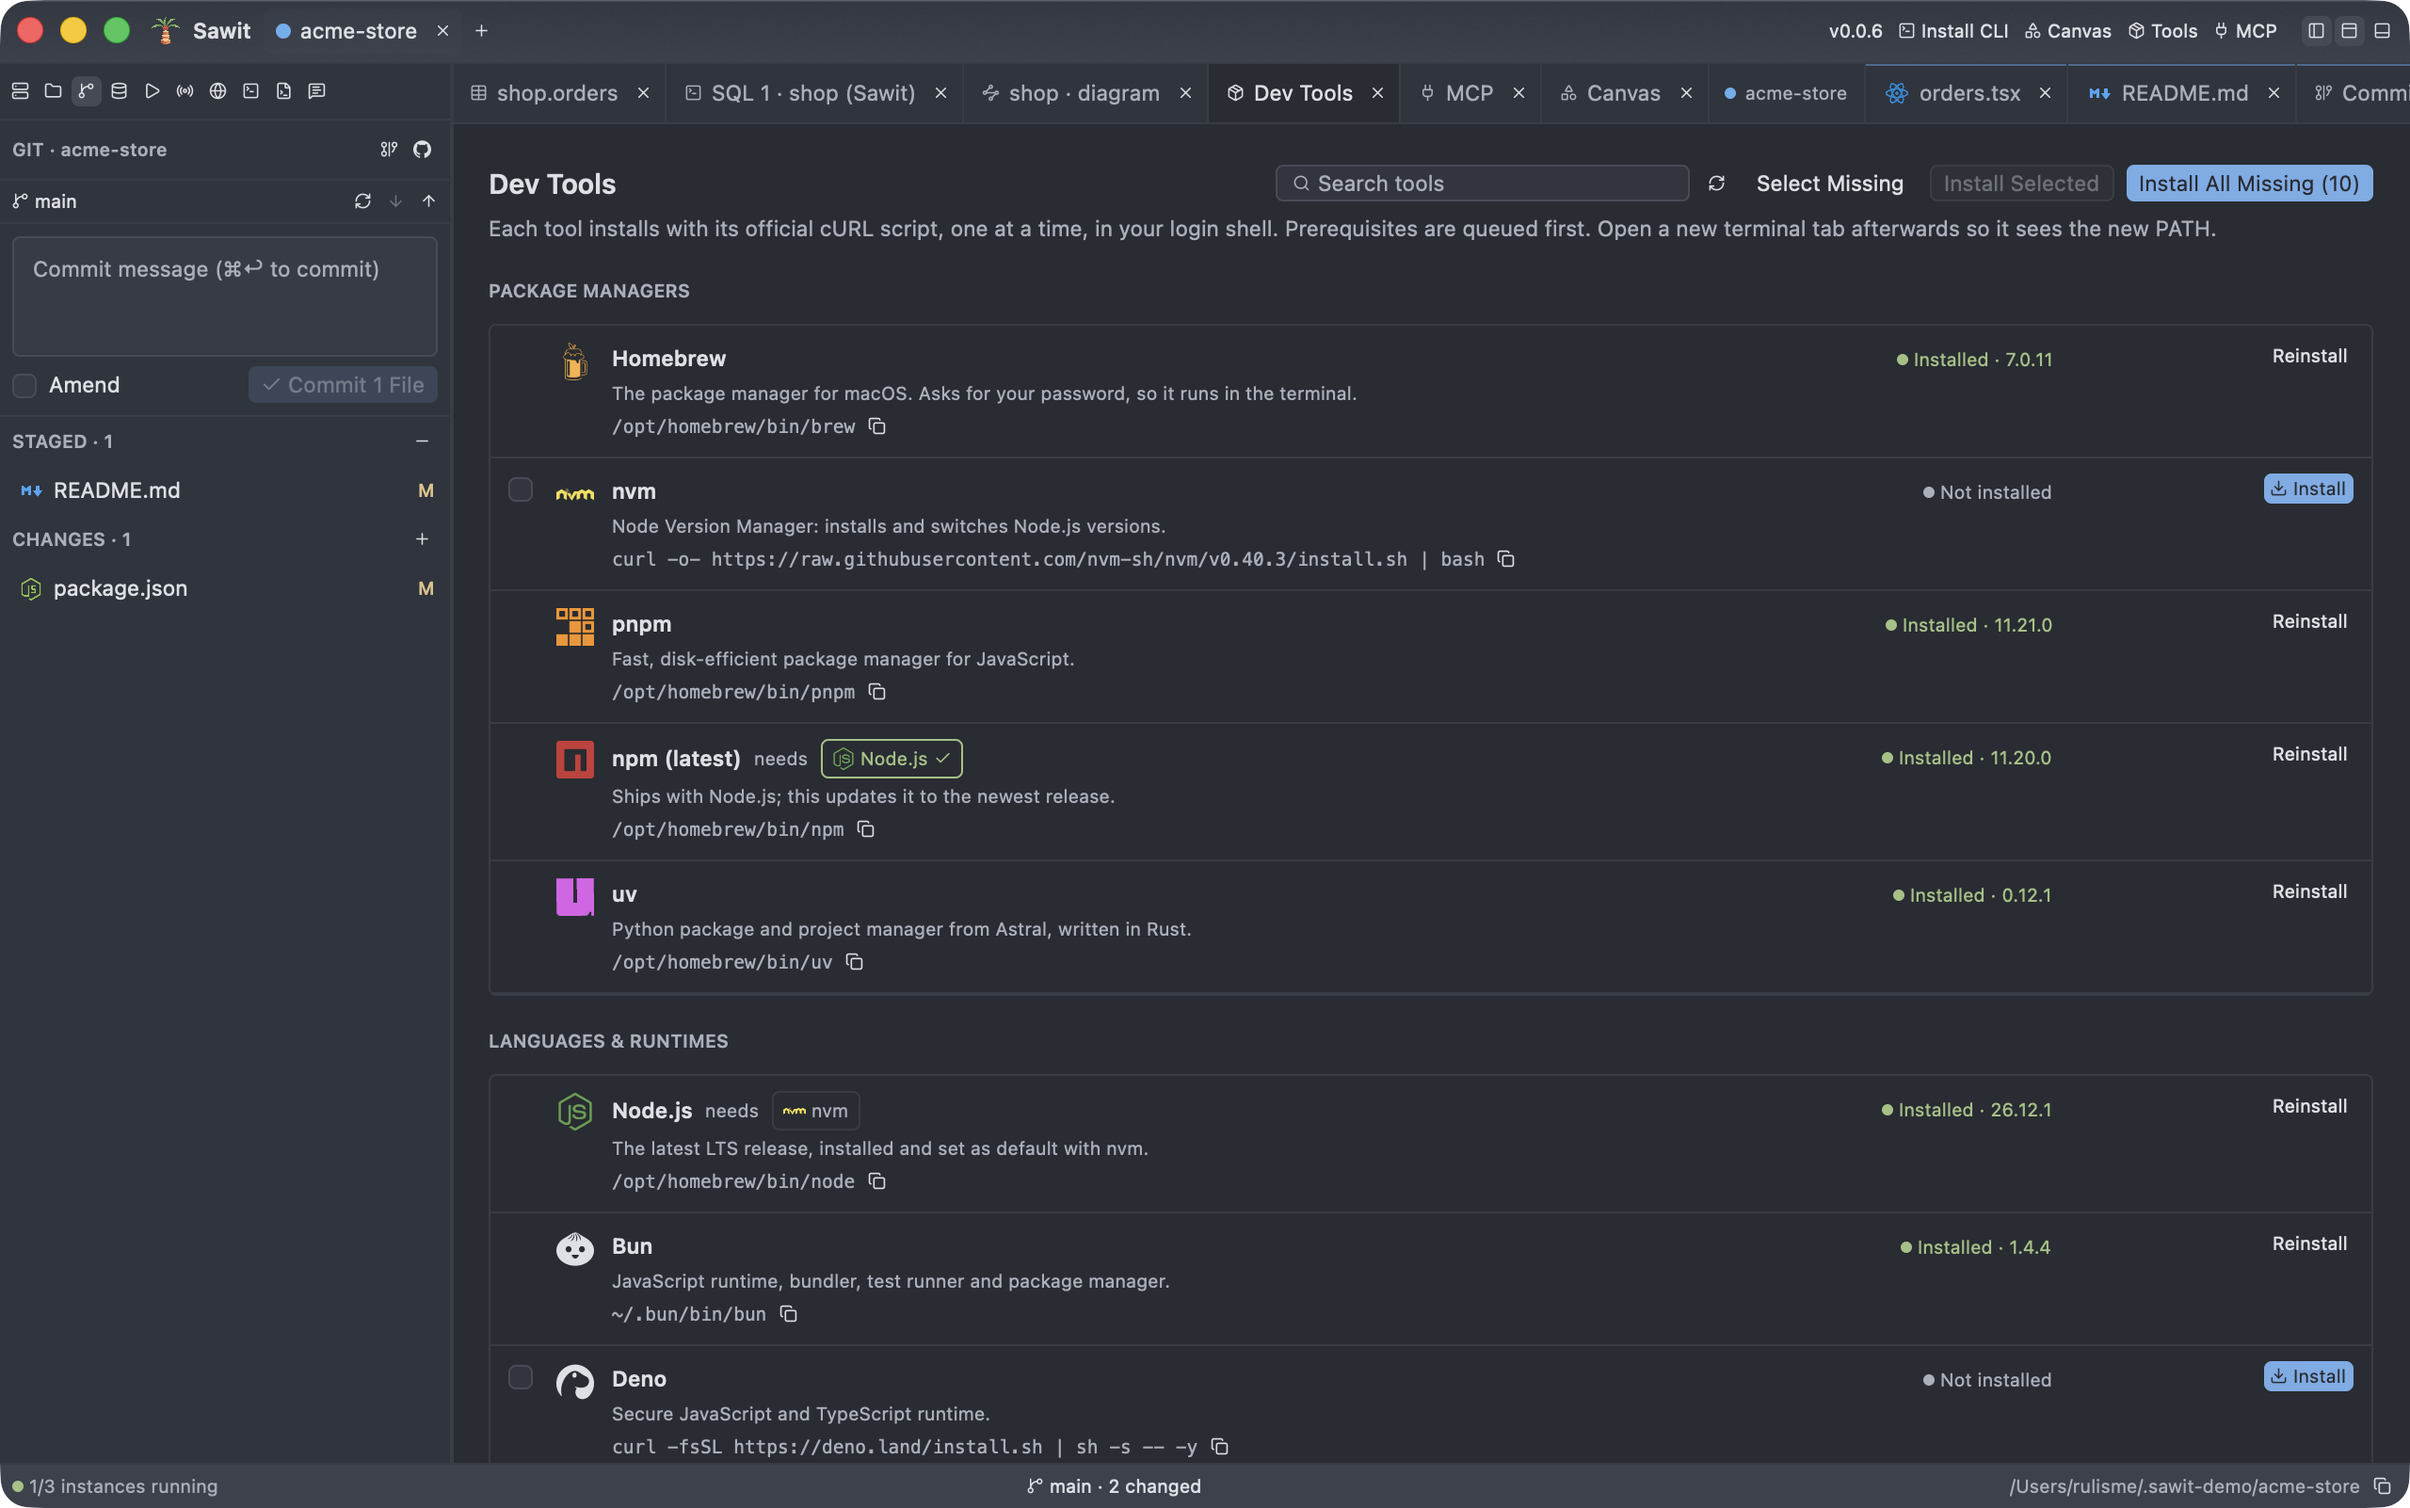
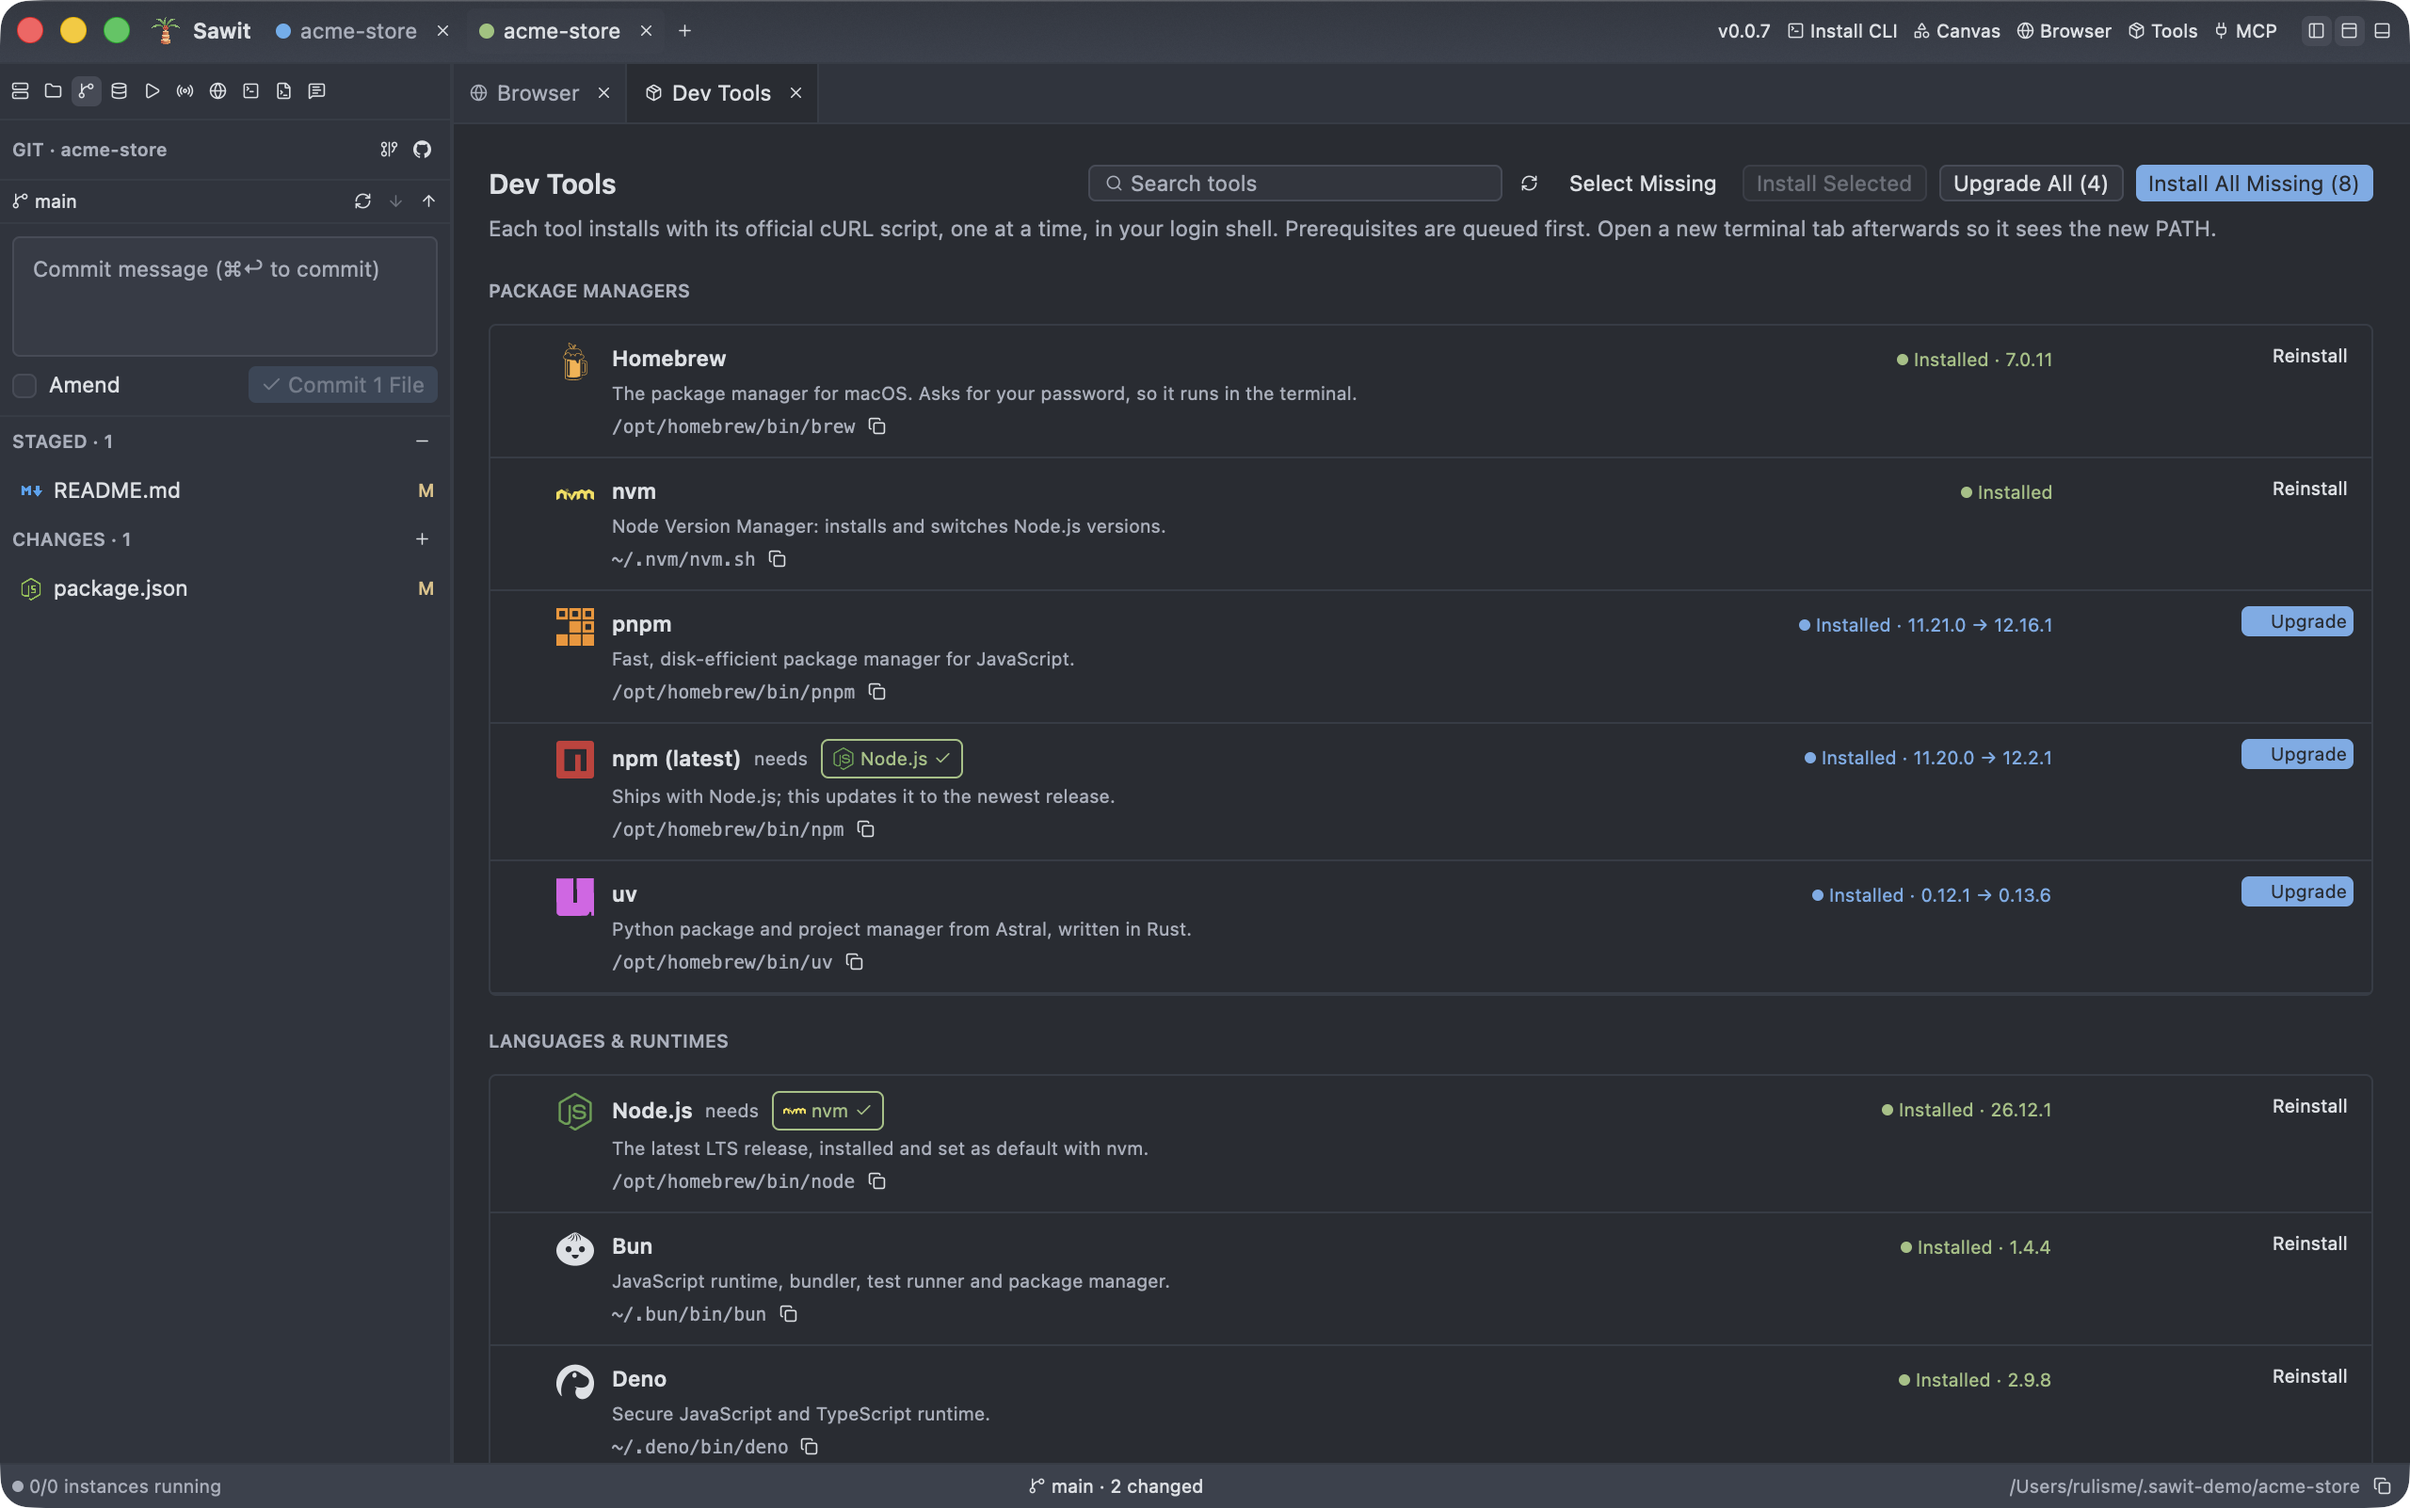
docs: update README, screenshots and demo for the browser tab and dev tool upgrades

diff --git a/README.md b/README.md
@@ -59,9 +59,10 @@ The UI is GPU-rendered with [GPUI](https://gpui.rs), and its look follows Zed (t
 | 🖥 **A real terminal** | Full `alacritty_terminal` emulation, fullscreen with one click, and it can run [herdr](https://herdr.dev). |
 | 📡 **Ports & network** | See and stop every dev server you started, and diagnose your internet connection step by step. |
 | 💬 **Prompt library** | Save the prompts you reuse, with tags and `{{variables}}` to fill in before copying. |
-| 🧰 **Dev tools in one click** | Install Homebrew, Bun, uv, Node.js, Rust, Claude Code, Codex and more with their official scripts, prerequisites first. |
-| ⌨ **psql-style CLI** | `sawit kyzn leads "phone is null"` queries a database, `sawit list` shows everything, `sawit bakar ports` stops dev servers, `sawit panen` exports and `sawit backup` dumps. |
-| 🤖 **Ready for AI agents** | The `sawit-mcp` server (96 tools) and a catalog of MCP servers (AWS, Cloudflare, Neon, Figma, …), installed into Claude Code, Codex, Cursor, Zed and more with one click. |
+| 🌐 **Browser for agents** | A browser tab per project that opens your dev server, with Web Inspector, and that AI agents drive through `browser_*` MCP tools: click, type, snapshot, console, network and screenshots. |
+| 🧰 **Dev tools in one click** | Install Homebrew, Bun, uv, Node.js, Rust, Claude Code, Codex and more with their official scripts, prerequisites first, and upgrade them when a newer release is out. |
+| ⌨ **psql-style CLI** | `sawit kyzn leads "phone is null"` queries a database, `sawit list` shows everything, `sawit bakar ports` stops dev servers, `sawit panen` exports, `sawit backup` dumps and `sawit pupuk` upgrades dev tools. |
+| 🤖 **Ready for AI agents** | The `sawit-mcp` server (110 tools) and a catalog of MCP servers (AWS, Cloudflare, Neon, Figma, …), installed into Claude Code, Codex, Cursor, Zed and more with one click. |
 
 ## Install
 
@@ -71,7 +72,7 @@ On an Apple Silicon Mac, run:
 curl -fsSL https://raw.githubusercontent.com/bahrulbangsawan/sawit.dev/main/scripts/install.sh | sh
 ```
 
-This installs the latest release into `/Applications` (or `~/Applications`). Add `SAWIT_VERSION=v0.0.6` before `sh`
+This installs the latest release into `/Applications` (or `~/Applications`). Add `SAWIT_VERSION=v0.0.8` before `sh`
 to pick a version. After that, the app updates itself.
 
 The script also offers to install [herdr](https://herdr.dev) (optional, for split panes in Sawit's terminal). It asks
@@ -213,11 +214,26 @@ explained. A conflict on the same address can't be forced.
 - Click **Tools** in the title bar for package managers (Homebrew, nvm, pnpm, npm, uv), languages and runtimes
   (Node.js, Bun, Deno, Python, Rust), AI agents (Claude Code, Codex, OpenCode, Amp, …) and terminal apps.
 - Each tool shows whether it's installed, its version and where it lives, and the exact command that installs it.
+- When npm or GitHub has a newer release, an installed tool shows `11.21.0 → 12.16.1` and an **Upgrade** button;
+  **Upgrade All** upgrades every one of them. Upgrades use the tool's own command (`bun upgrade`, `uv self update`,
+  `claude update`, …), or its install script again.
 - **Install** one, tick several and **Install Selected**, or **Install All Missing**. Each runs its official install
   script in your login shell, one at a time, with prerequisites first (nvm before Node.js, uv before Python).
 - Homebrew asks for your password, so it runs in the terminal. Open a new terminal tab afterwards so it sees the
   new `PATH`.
-- From the terminal: `sawit list tools` and `sawit pasang bun uv`.
+- From the terminal: `sawit list tools`, `sawit pasang bun uv` and `sawit pupuk`.
+
+### Browser
+
+<img src="docs/media/browser.png" alt="Browser tab showing the acme-store demo shop on localhost:5173, with back, forward, reload, the address field and a Web Inspector button above the page" width="100%">
+
+- Click **Browser** in the title bar for a web browser tab (WebKit). With nothing typed, it opens the project's
+  running dev server. The toolbar has back, forward, reload, an address field (text that isn't a URL is searched)
+  and the Web Inspector.
+- Cookies and storage are kept per project, so being signed in to one app doesn't leak into another.
+- AI agents drive it through the `browser_*` MCP tools: open pages, read the page as an accessibility outline,
+  click, type, pick options, press keys, scroll, wait for text, run JavaScript, and read the console, failed
+  requests and screenshots.
 
 ### Canvas
 
@@ -340,7 +356,7 @@ Both create a symlink `/usr/local/bin/sawit` to the app and ask for an admin pas
 root.
 
 Besides opening files, the command can query databases like `psql`, export, back up and import tables, list
-instances, databases, ports and dev tools, stop dev servers or instances, and install dev tools, all without the app (see
+instances, databases, ports and dev tools, stop dev servers or instances, and install or upgrade dev tools, all without the app (see
 [below](#databases-ports-and-instances-from-the-terminal)).
 
 ```bash
@@ -384,15 +400,17 @@ sawit backup kyzn crm.leads leads.sql        # one schema or one table
 sawit tanam kyzn leads leads.csv             # "plant": load a CSV file into a table, all rows or none
 sawit list tools                             # dev tools and whether they're installed
 sawit pasang bun uv                          # "plant": install dev tools, prerequisites first (asks; -y skips)
+sawit pupuk                                  # "fertilize": upgrade every tool with a newer release (asks; -y skips)
+sawit pupuk bun -y                           # upgrade one tool without asking
 ```
 
 - `<db>` is looked up in this order: a Sawit instance or saved connection with that name, a database with that name in
   a saved connection, `DATABASE_URL` in `.env` in the current folder or one above it, then the databases of every
   Postgres running locally. A unique prefix also works (`kyzn` finds `kyzn_crm`). If a file or folder with that name
   exists, it's opened instead. To open a folder named after a subcommand (`list`, `bakar`, `panen`, `backup`,
-  `tanam`, `pasang`, …), use `sawit ./list`.
+  `tanam`, `pasang`, `pupuk`, …), use `sawit ./list`.
 - Every word has an English and an Indonesian name: `list`/`ls`, `panen`/`export`/`ekspor`,
-  `backup`/`dump`/`cadangkan`, `tanam`/`import`/`impor`, `pasang`/`install`, and for `list`: `db`/`blok`,
+  `backup`/`dump`/`cadangkan`, `tanam`/`import`/`impor`, `pasang`/`install`, `pupuk`/`upgrade`, and for `list`: `db`/`blok`,
   `ports`/`lahan`, `instances`/`kebun`, `connections`/`konsesi`, `tools`/`alat`/`perkakas`.
 - `panen` and `backup` ask before replacing an existing file; `-y` replaces it without asking. Without a terminal
   they refuse instead of prompting. `panen` with SQL runs it read-only.
@@ -404,12 +422,15 @@ sawit pasang bun uv                          # "plant": install dev tools, prere
 - `pasang` runs each tool's official install script, the same as the app's **Tools** page. It lists what will run and
   asks first (`-y` skips the question; without a terminal it needs `-y`). Homebrew asks for a password, so `pasang`
   prints its command for you to run instead.
+- `list tools` marks a tool with a newer release as `terpasang 0.12.1 → 0.13.6`. `pupuk` with no tools upgrades all
+  of those, the same as **Upgrade All**; named tools are upgraded unless they're already the latest. It asks first
+  like `pasang`, and without a terminal it needs `-y`.
 
 ## MCP for AI agents
 
 <img src="docs/media/mcp.png" alt="MCP page: the built-in Sawit server and remote servers such as AWS, Cloudflare, Neon, Postman and Figma, each with its address, sign-in and install status" width="100%">
 
-The `sawit-mcp` binary (stdio) lets AI agents do what a person can do in Sawit. Its 96 tools work **without the app**,
+The `sawit-mcp` binary (stdio) lets AI agents do what a person can do in Sawit. Its 110 tools work **without the app**,
 except the app-control ones, which drive the running app (`launch_app` starts it).
 
 | Area | Tools |
@@ -425,15 +446,16 @@ except the app-control ones, which drive the running app (`launch_app` starts it
 | Git | `git_status`, `git_log`, `git_diff`, `git_show`, `git_branches`, `git_stage`, `git_unstage`, `git_commit`, `git_switch` |
 | Prompts | `list_prompts`, `get_prompt`, `create_prompt`, `update_prompt`, `delete_prompt`, `fill_prompt` |
 | Files | `search_files` |
-| Dev tools | `list_dev_tools`, `install_dev_tools` |
+| Dev tools | `list_dev_tools` (with newer releases), `install_dev_tools`, `upgrade_dev_tools` |
 | MCP servers | `list_mcp_servers`, `install_mcp_server`, `uninstall_mcp_server` |
 | App control (app running) | `launch_app`, `app_state`, `app_open`, `app_focus`, `app_show_panel`, `app_layout`, `app_maximize_terminal`, `app_open_page`, `app_activate_tab`, `app_close_tab`, `app_run_list`, `app_run_script`, `app_stop_script`, `app_ssh_connect`, `app_open_table`, `app_open_sql` (with `run`), `app_open_diagram`, `app_open_prompt`, `app_instance` (select, start, stop, restart), `app_network_diagnose` |
 | Terminal (app running) | `terminal_run`, `terminal_read`, `terminal_input`, `terminal_close` |
+| Browser (app running) | `browser_navigate` (with no URL: the project's dev server), `browser_snapshot`, `browser_click`, `browser_type`, `browser_select_option`, `browser_press_key`, `browser_hover`, `browser_scroll`, `browser_wait_for`, `browser_evaluate`, `browser_console`, `browser_network`, `browser_screenshot` |
 | Canvas (app running) | `canvas_get`, `canvas_add_elements`, `canvas_add_mermaid`, `canvas_update`, `canvas_delete`, `canvas_clear`, `canvas_load`, `canvas_export` |
 
 Destructive tools say so and need an explicit confirmation: `drop_database`, `drop_relation`, `truncate_table`
-and `uninstall_mcp_server` take the name again as `confirm` (so does `remove_instance` when it deletes the data), and `install_dev_tools` needs
-`confirm: true` because it runs install scripts from the internet. Passwords never appear in a result.
+and `uninstall_mcp_server` take the name again as `confirm` (so does `remove_instance` when it deletes the data), and `install_dev_tools` and `upgrade_dev_tools` need
+`confirm: true` because they run install scripts from the internet. Passwords never appear in a result.
 
 Click **MCP** in the title bar to install it, along with a catalog of other servers: AWS, Cloudflare, Neon, Postman,
 Figma, Mobbin, Exa and more. Servers that need an account sign in through the client's own sign-in, which the page
@@ -527,10 +549,11 @@ crates/core   sawit-core — no GPUI, tested with plain cargo test
   git, github            status, diff, log graph, commits, branches; GitHub pull requests and checks
   ssh, shell_config      saved SSH hosts and ~/.ssh/config; shell startup files
   scripts, search        a project's run scripts and saved commands; text search in a folder
-  dev_tools              the Tools page catalog, detection and install scripts
+  dev_tools              the Tools page catalog, detection, latest releases, install and upgrade
+  browser                the browser tab's agent ops, page agent script, console and network logs
   mcp_clients, mcp_catalog, mcp_auth   MCP install into AI clients, the server catalog, client sign-in
   app_control, update, cli    control socket for agents, self-update, the sawit command
-  kebun                  sawit <db>, list, bakar, panen, backup, tanam, pasang (no app needed)
+  kebun                  sawit <db>, list, bakar, panen, backup, tanam, pasang, pupuk (no app needed)
   rt                     Tokio runtime on its own thread
 crates/app    sawit — GPUI UI only (draws & forwards input)
 crates/mcp    sawit-mcp — stdio MCP server on top of core
